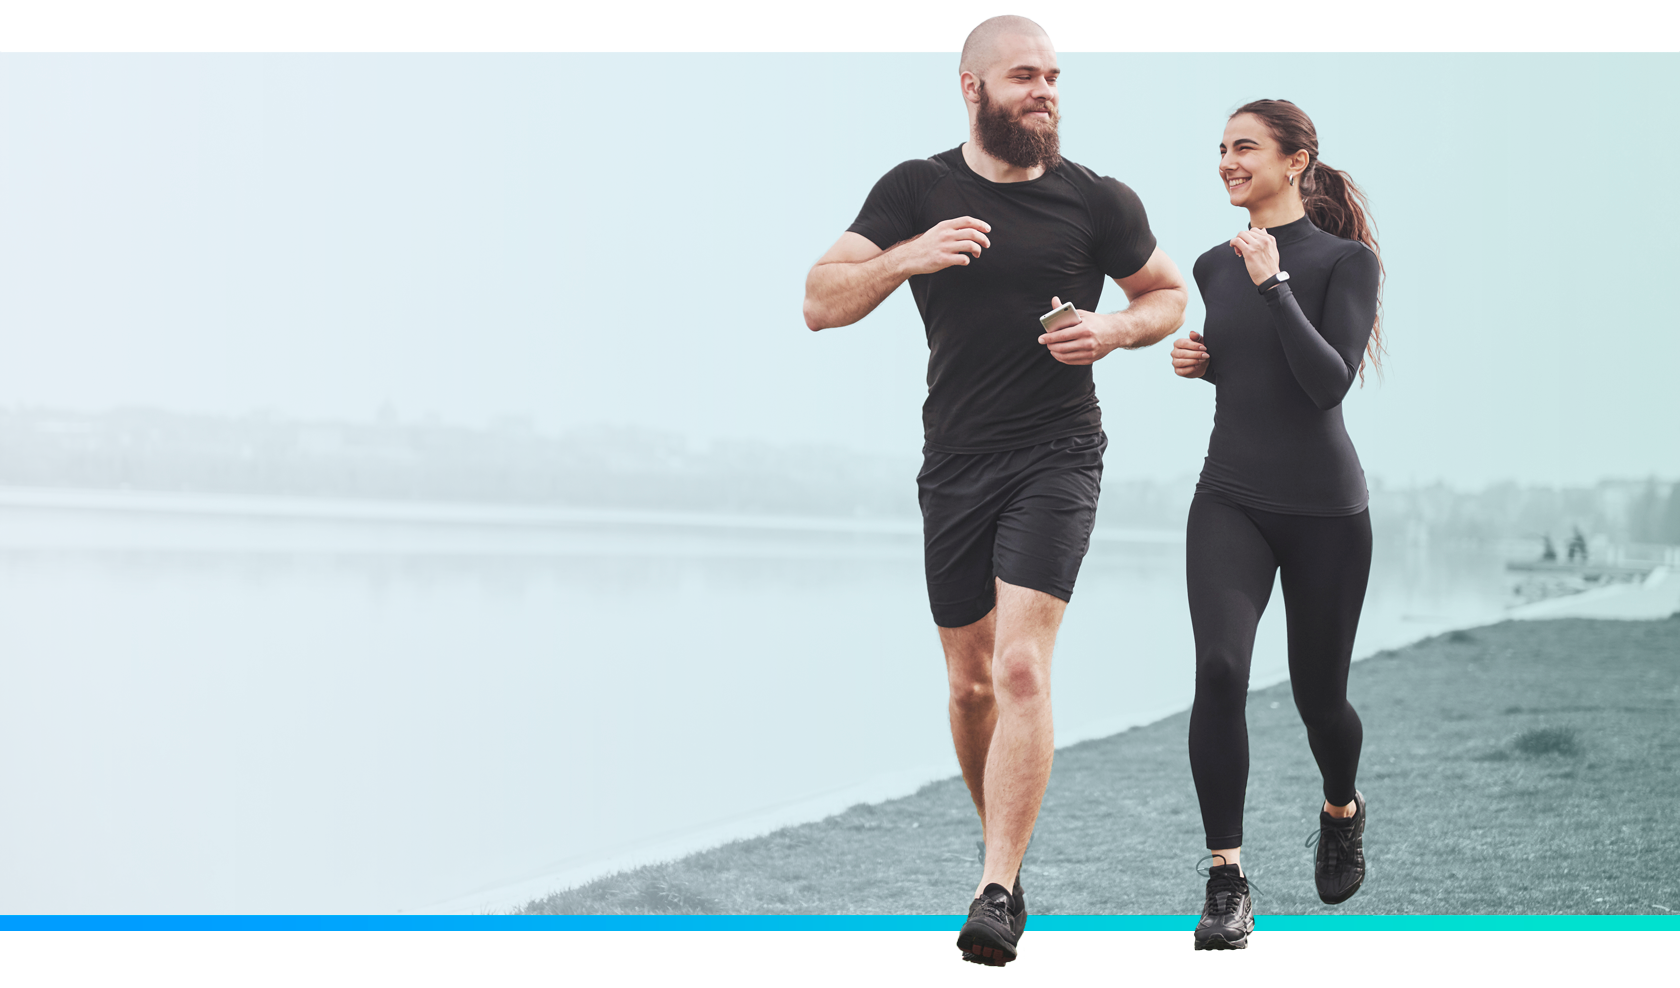
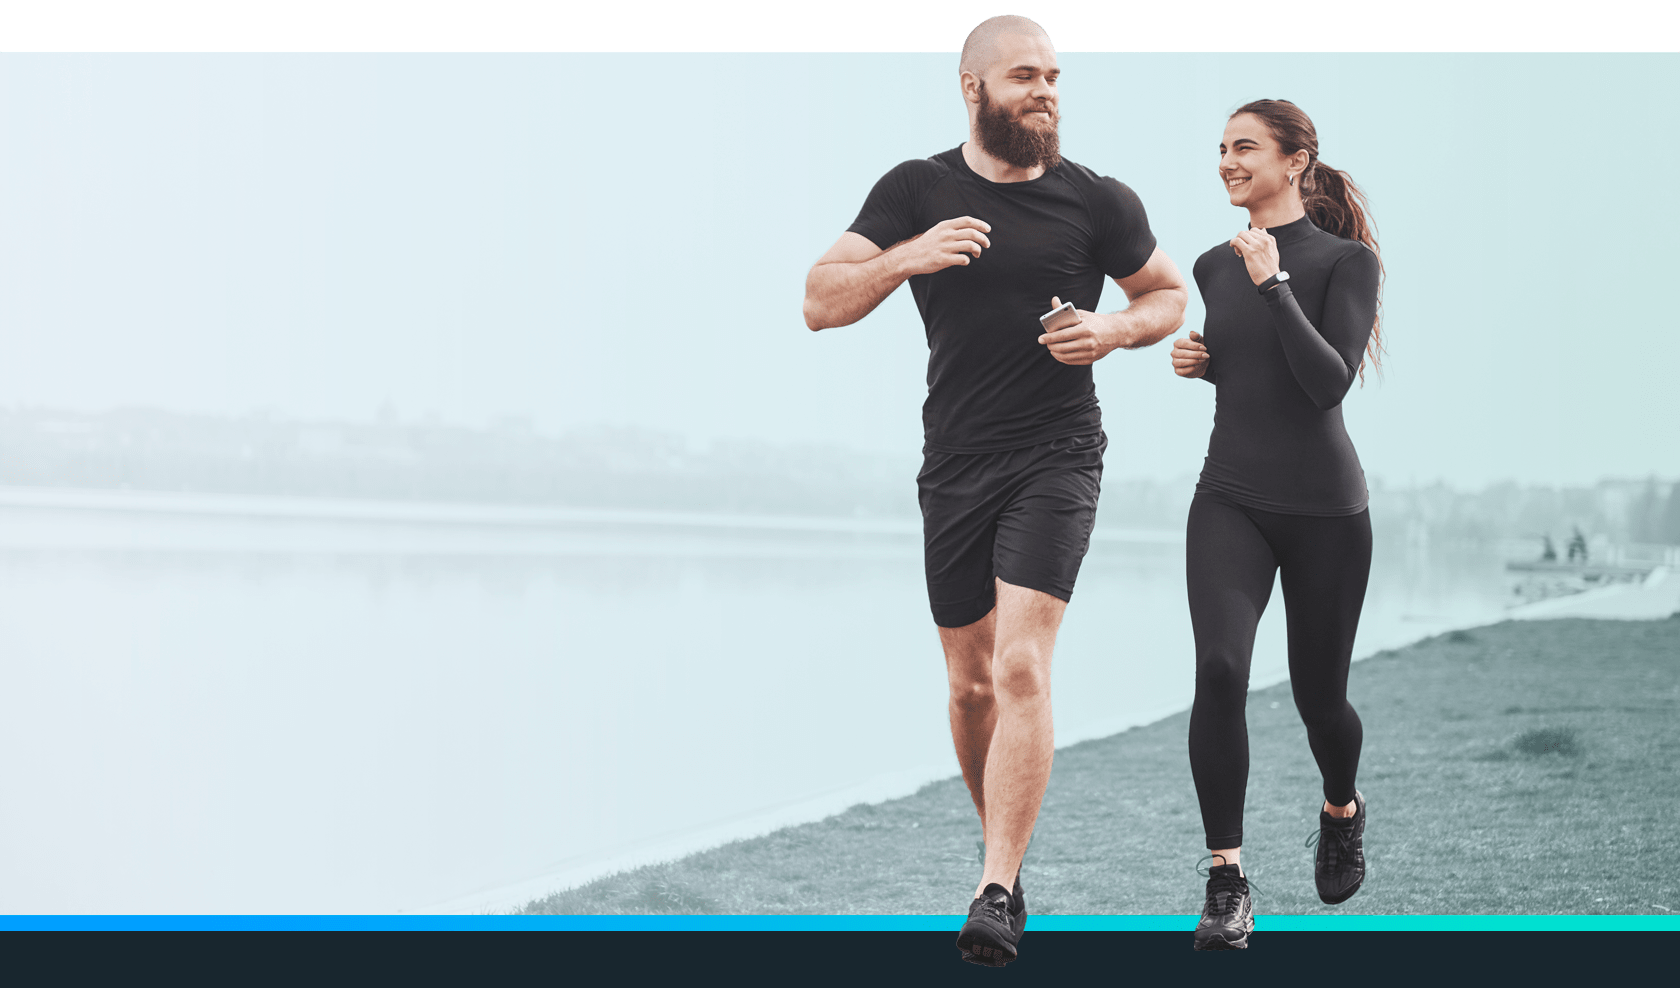
fix

Changed region(s): [[0.0, 0.9413, 1.0, 1.0]]

diff --git a/css/ctyle.css b/css/ctyle.css
@@ -59,7 +59,7 @@ li {
   width: 100%;
   height: 100px;
   overflow-x: hidden;
-  z-index: 1;
+  z-index: 9;
 }
 .ParalaxConditionBottom {
   bottom: 0;
@@ -72,17 +72,12 @@ li {
 .main {
   position: relative;
   display: flex;
-  /* background-image: url("../img/main_bg.png");
-  background-color: #1e251e;
-  background-position: center center;
-  background-size: cover;
-  background-repeat: no-repeat; */
   margin-top: 100px;
   width: 100%;
   height: fit-content;
   z-index: 9;
-  padding: 4% 0 6.6%;
   box-sizing: border-box;
+  object-fit: fill;
 }
 .mainBG {
   position: absolute;
@@ -90,7 +85,7 @@ li {
   left: 0;
   width: 100%;
   z-index: 8;
-  object-fit: cover;
+  height: 100%;
 }
 .main__text {
   display: flex;
